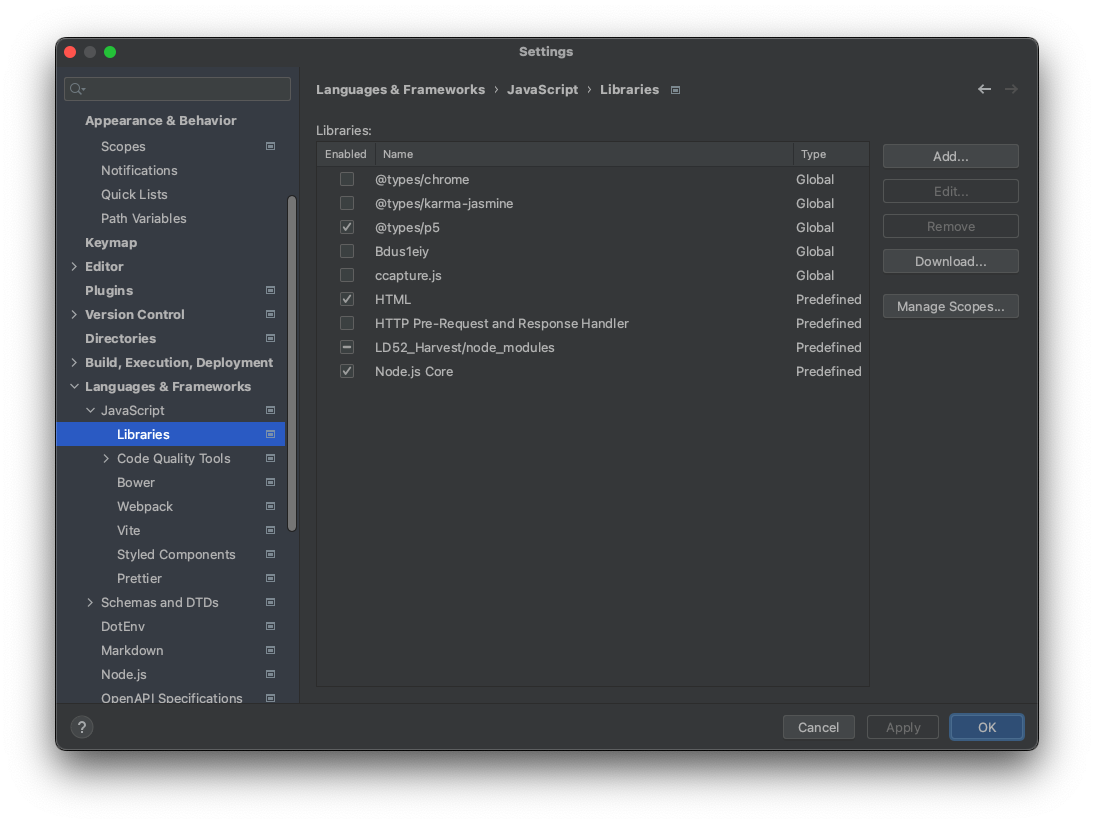
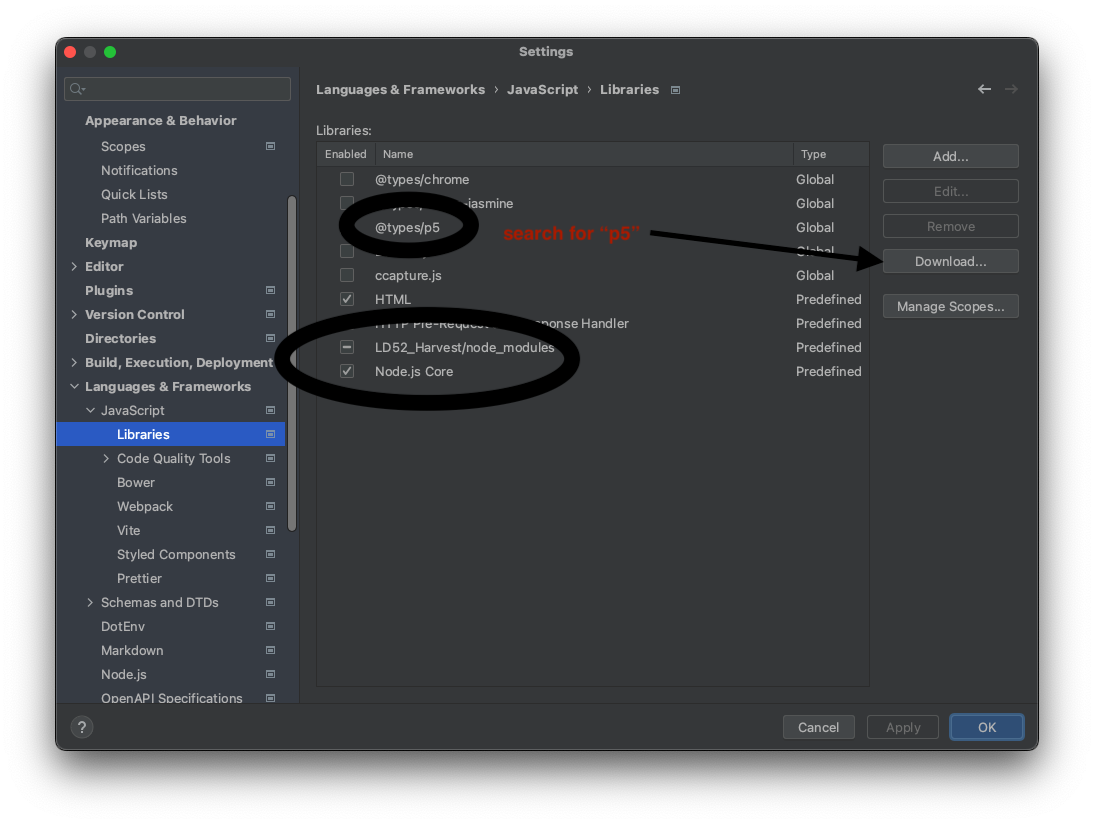
chg: better readme

diff --git a/README.md b/README.md
@@ -2,6 +2,7 @@
 
 ## LOCAL SETUP
 
-1. Activate PHPstorm lib for code completion things
-![codecompletion_p5.png](documentation/codecompletion_p5.png)
-2. Open local server: `php -S localhost:8000`
+1. `npm install`
+2. Activate PHPstorm lib for code completion things
+    ![codecompletion_p5.png](documentation/codecompletion_p5.png)
+3. `php -S localhost:8000`
